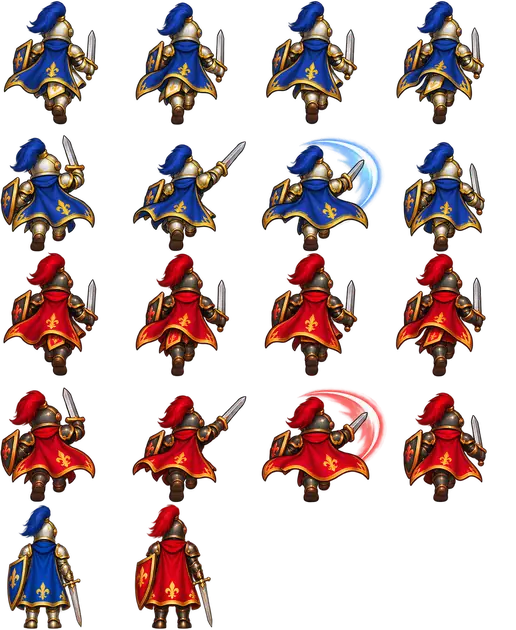
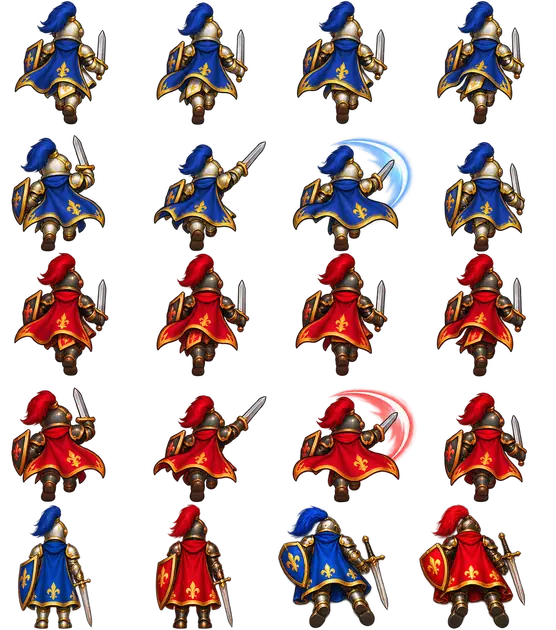
Knights skin: drawn fallen poses for captured pieces (4 directions)
Claude-Session: https://claude.ai/code/session_014A9u2v94CxGcooEZKN3u8K

diff --git a/skins.js b/skins.js
@@ -410,7 +410,7 @@ for(const k in LIGHT.draw)LIGHT.draw[k]=wrap(LIGHT.draw[k]);
 
 
 /* ============ ROYAL KNIGHTS (hand-painted raster sprites: 4 walk + 4 attack frames per side) ============ */
-const RK_META={Kr:[156,121,58.8,121.8],Ku:[150,121,55.0,121.8],Kd:[122,121,58.0,121.8],Qr:[152,129,68.9,128.9],Qu:[141,127,59.6,126.8],Qd:[126,128,57.1,127.7],Br:[158,123,58.4,123.5],Bu:[102,131,51.2,131.0],Bd:[109,122,52.5,121.8],Nr:[167,137,63.0,137.8],Nu:[109,140,39.9,140.3],Nd:[104,137,46.6,137.3],Rr:[151,120,65.5,121.0],Ru:[121,121,54.2,121.4],Rd:[129,124,62.2,125.2],Pr:[163,126,58.0,127.3],Pu:[129,126,44.5,126.8],Pd:[121,128,54.2,127.7]};
+const RK_META={Kr:[156,121,58.8,121.8],Ku:[154,121,58.4,121.8],Kd:[125,121,60.5,121.8],Qr:[152,129,68.9,128.9],Qu:[143,127,61.3,127.3],Qd:[132,128,63.4,127.7],Br:[161,123,60.9,123.5],Bu:[104,131,52.5,131.0],Bd:[109,122,52.5,121.8],Nr:[173,137,69.3,137.8],Nu:[139,140,69.3,140.3],Nd:[135,137,66.8,137.3],Rr:[151,120,65.5,121.0],Ru:[124,121,56.7,121.4],Rd:[129,124,62.2,125.2],Pr:[168,126,62.6,127.3],Pu:[139,126,55.4,126.8],Pd:[131,128,63.8,127.7]};
 const RK_U=160/(534*0.42); /* local units per atlas pixel (frame = 1.6 tiles) */
 const RK_IMG={};
 const RK_DIR={r:'right',u:'up',d:'down'};
@@ -433,11 +433,11 @@ function rkFrame(o){
 const rkDraw=t=>(c,P,o)=>{
   const dr=o.dir||'r',e=rkImg(t,dr),m=RK_META[t+dr],[mw,mh,max,may]=m;
   if(!e.ok){c.save();c.globalAlpha*=.35;c.fillStyle=P.main;c.beginPath();c.ellipse(0,-30,16,28,0,0,TAU);c.fill();c.restore();return}
-  const fr=rkFrame(o),idl=fr===8,col=idl?(P.team==='b'?1:0):fr%4,row=idl?4:(P.team==='b'?2:0)+(fr>=4?1:0);
+  const dd=o.mood==='dead',fr=dd?9:rkFrame(o),idl=fr>=8,col=dd?(P.team==='b'?3:2):idl?(P.team==='b'?1:0):fr%4,row=idl?4:(P.team==='b'?2:0)+(fr>=4?1:0);
   const bob=o.moving?-Math.abs(Math.sin((o.ph||0)*1.6))*1.5:Math.sin(o.t*2.2+o.id)*-.6;
   const dead=o.mood==='dead';
   c.save();
-  if(dead)c.translate(0,5);
+  
   c.drawImage(e.img,col*mw,row*mh,mw,mh,-max*RK_U,-may*RK_U+2+bob,mw*RK_U,mh*RK_U);
   c.restore();
 };
@@ -445,7 +445,7 @@ const RKP={
   w:{main:'#C9D3E3',light:'#F4F7FC',dark:'#6C7A93',line:'#1F2A44',accent:'#3A62C8',team:'w'},
   b:{main:'#8A2B33',light:'#C9565E',dark:'#3A1218',line:'#1E0A0D',accent:'#D1453B',team:'b'}
 };
-const KNIGHTS={dirs:true,pending:t=>!rkImg(t,'d').ok,name:'Корольдік гвардия',desc:'Күміс және обсидиан рыцарьлары',pal:RKP,sc:{P:1,N:1,B:1,R:1,Q:1,K:1},
+const KNIGHTS={dirs:true,norot:true,pending:t=>!rkImg(t,'d').ok,name:'Корольдік гвардия',desc:'Күміс және обсидиан рыцарьлары',pal:RKP,sc:{P:1,N:1,B:1,R:1,Q:1,K:1},
   names:{P:'Жаяу рыцарь',N:'Салт атты',B:'Сиқыршы',R:'Мұнара сақшысы',Q:'Патшайым',K:'Патша'},
   draw:{P:rkDraw('P'),N:rkDraw('N'),B:rkDraw('B'),R:rkDraw('R'),Q:rkDraw('Q'),K:rkDraw('K')}};
 

diff --git a/index.html b/index.html
@@ -718,7 +718,7 @@ function drawSprite(c,p,gx,gy,tm){
     c.restore();return;
   }
   c.save();c.translate(gx,gy);
-  c.rotate(flip?-p.rot:p.rot);
+  if(!(p.mood==='dead'&&skO(p.c).norot))c.rotate(flip?-p.rot:p.rot);
   const s=T/100*scO(p.c,p.t);
   c.scale((flip?-p.face:p.face)*p.sx*s,p.sy*s);
   c.rotate(p.lean);
